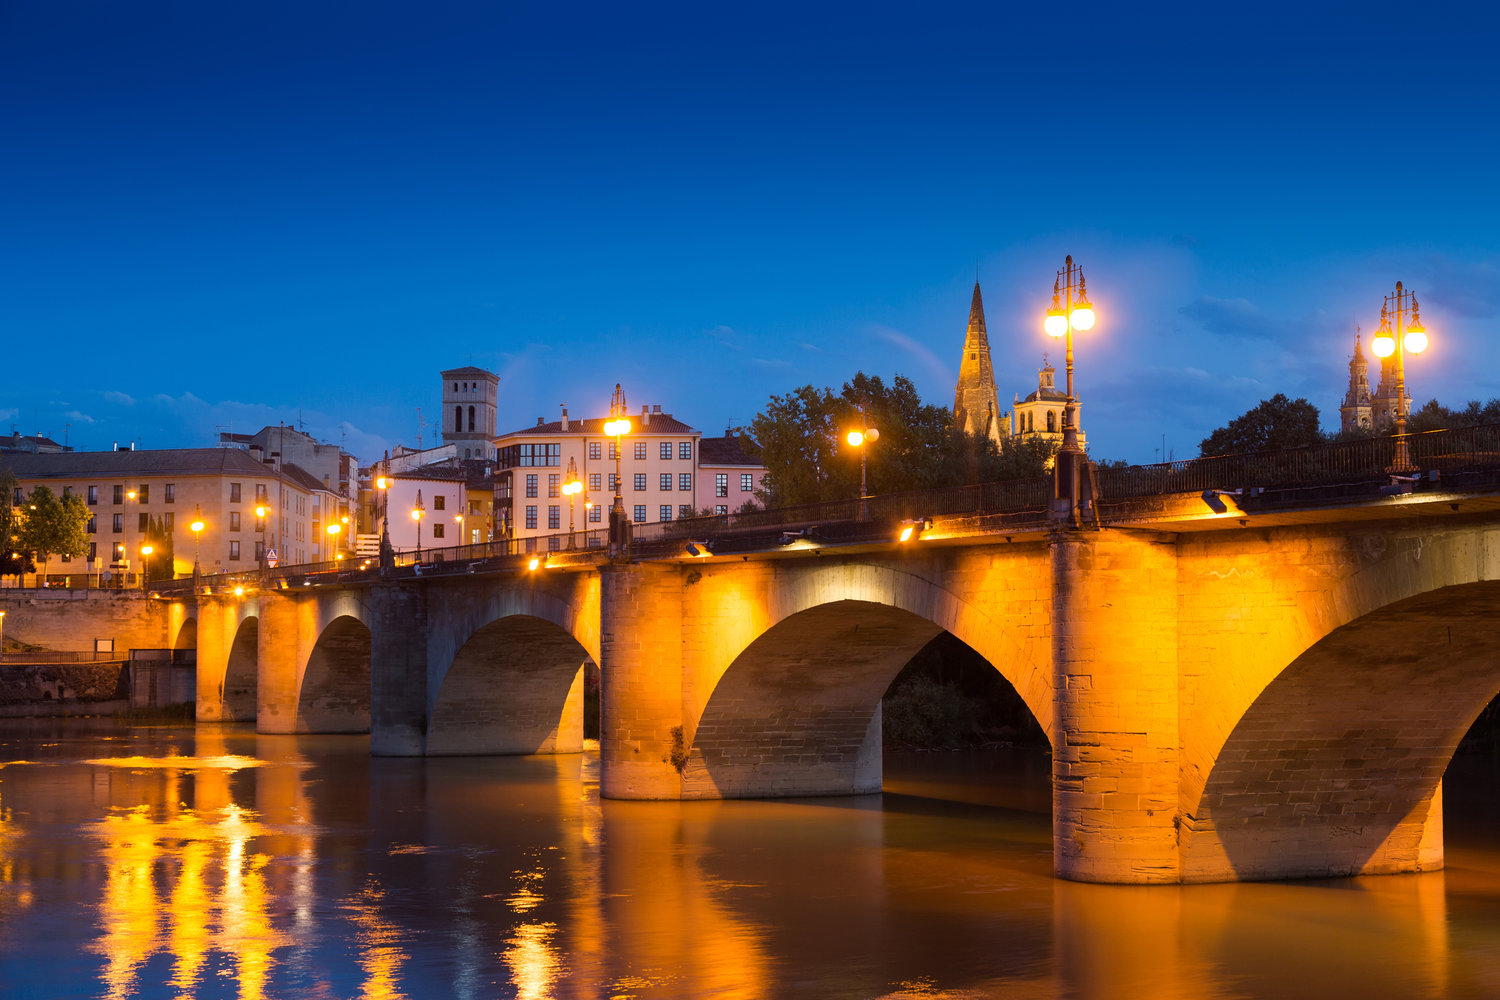
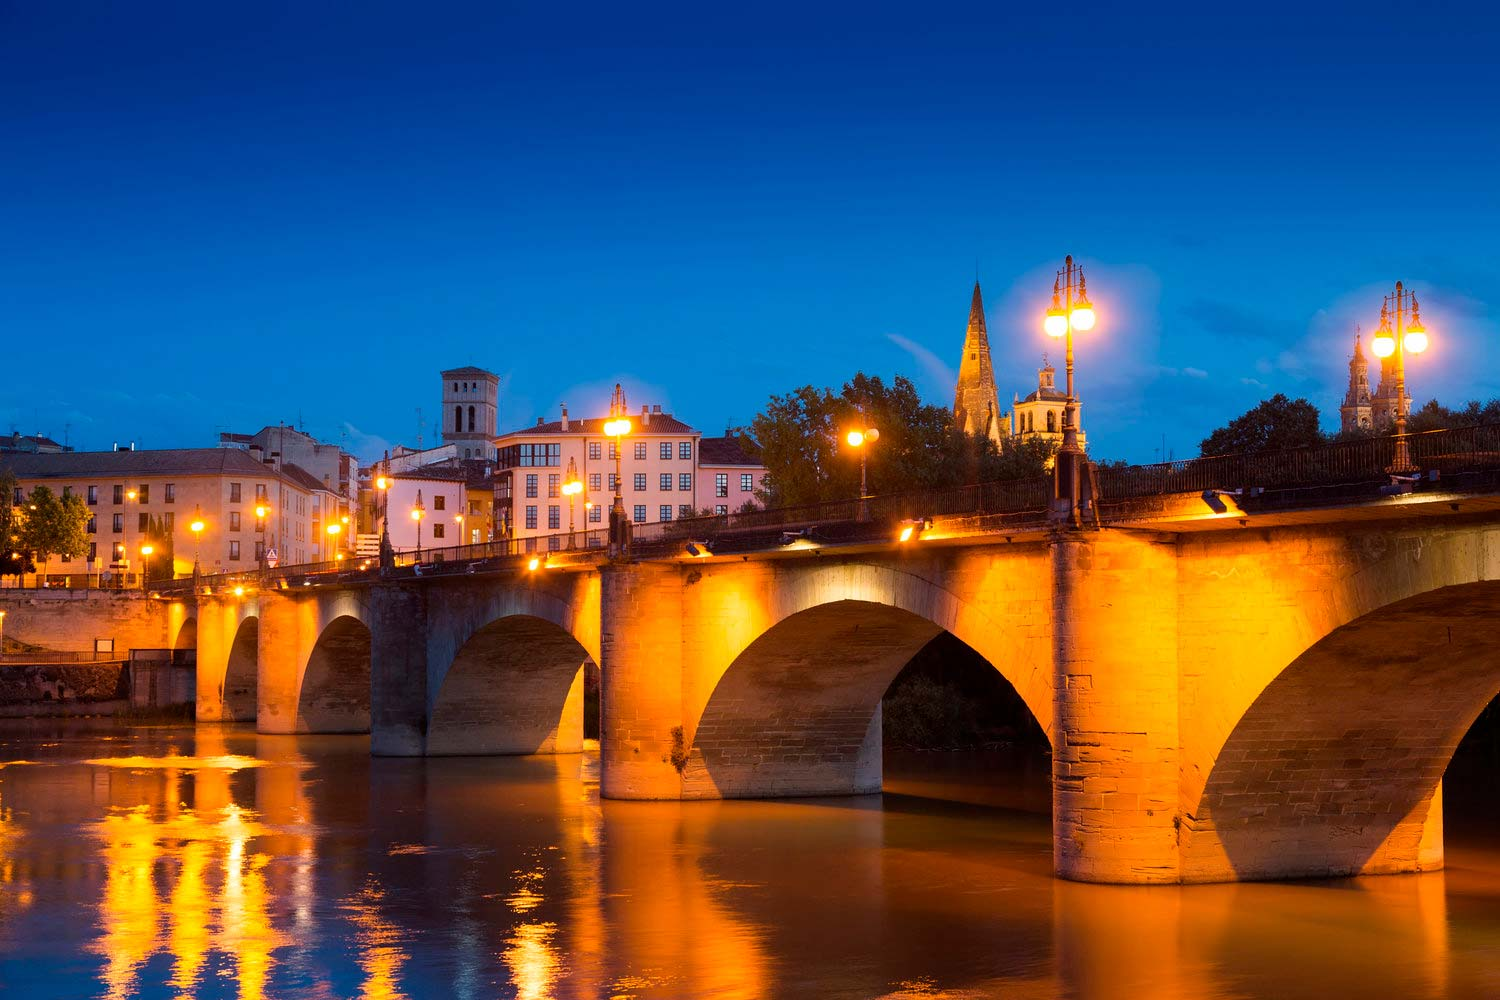
changes img

diff --git a/app/src/components/modules/slider/citiesComp.vue b/app/src/components/modules/slider/citiesComp.vue
@@ -42,7 +42,7 @@
   </div>
 </template>
 <script lang="ts">
-import { defineComponent, ref } from "vue";
+import { defineComponent, ref, Ref, onMounted } from "vue";
 import * as THREE from "three";
 import gsap from "gsap";
 import imagesLoaded from "imagesloaded";
@@ -57,9 +57,21 @@ export default defineComponent({
     const slideStatusRef = ref();
     const paginationRef = ref();
     const sliderRef = ref();
-    const imagesRef = ref();
+    const imagesRef = ref<Ref<HTMLImageElement | null>[]>([]);
     let activeSlideId = ref(0);
     const slides = ref<Slide[]>(slidesData);
+    onMounted(() => {
+      imagesLoaded(imagesRef.value, () => {
+        const el = document.getElementById("slider");
+        if (el) {
+          const imgs = Array.from(el.querySelectorAll("img"));
+          displacementSlider({
+            parent: el,
+            images: imgs,
+          });
+        }
+      });
+    });
     const displacementSlider = function (opts: DisplacementSliderOptions) {
       let isAnimating = false;
       let vertex = `
@@ -295,16 +307,6 @@ void main() {
       };
       animate();
     };
-    imagesLoaded(document.querySelectorAll("img"), () => {
-      const el = document.getElementById("slider");
-      if (el) {
-        const imgs = Array.from(el.querySelectorAll("img"));
-        displacementSlider({
-          parent: el,
-          images: imgs,
-        });
-      }
-    });
     return {
       slides,
       store,
@@ -343,10 +345,10 @@ void main() {
   }
   canvas {
     position: absolute !important;
+    width: 100%;
+    height: 100vh;
     transform: translate(-50%, -50%) !important;
     z-index: 100;
-    aspect-ratio: 16/9;
-    object-fit: contain;
   }
 }
 
@@ -441,7 +443,6 @@ void main() {
   left: 150%;
   width: 100%;
   height: 100vh;
-  object-fit: cover;
 }
 
 #pagination {

diff --git a/app/src/components/modules/slider/slidesData.ts b/app/src/components/modules/slider/slidesData.ts
@@ -34,13 +34,13 @@ export const slidesData: Slide[] = [
   {
     title: "Ponferrada",
     status: "Lorem Ipsum",
-    img: require("@/assets/img/ponferrada-dia.webp"),
+    img: require("@/assets/img/ponferrada-dia.jpg"),
     imgNight: require("@/assets/img/ponferrada-noche.jpg"),
   },
   {
     title: "Santiago de Compostela",
     status: "Lorem Ipsum",
-    img: require("@/assets/img/santiago.webp"),
+    img: require("@/assets/img/santiago.jpg"),
     imgNight: require("@/assets/img/santiago-noche.jpg"),
   },
 ];
